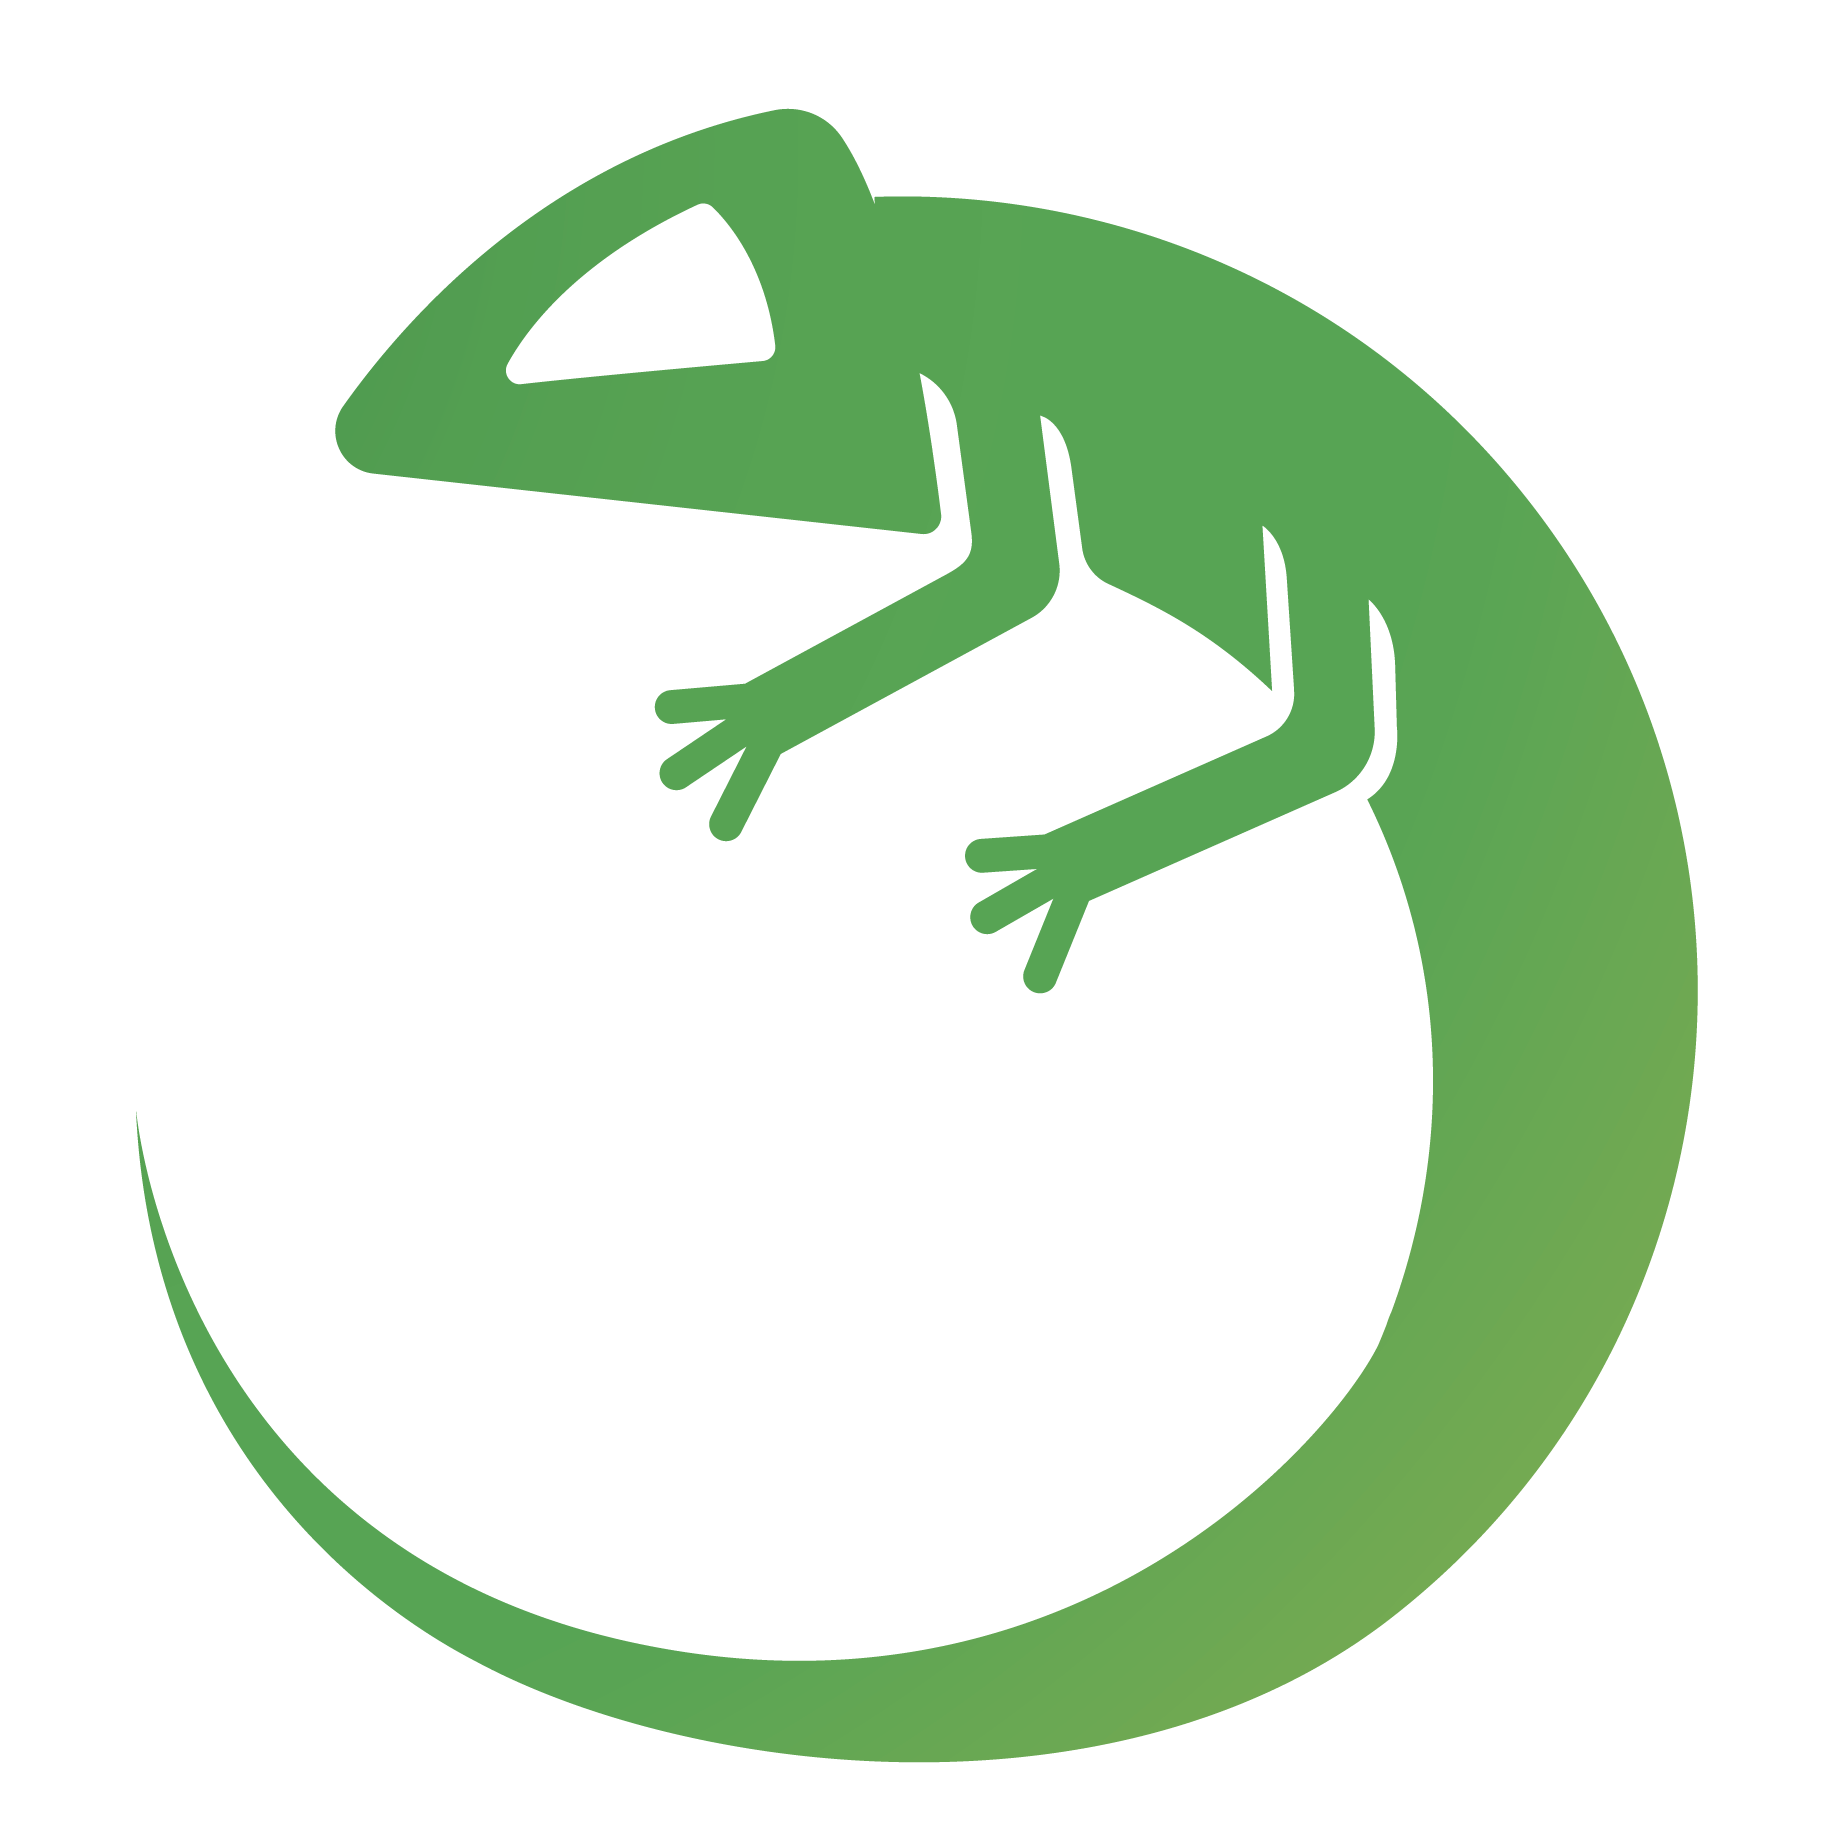
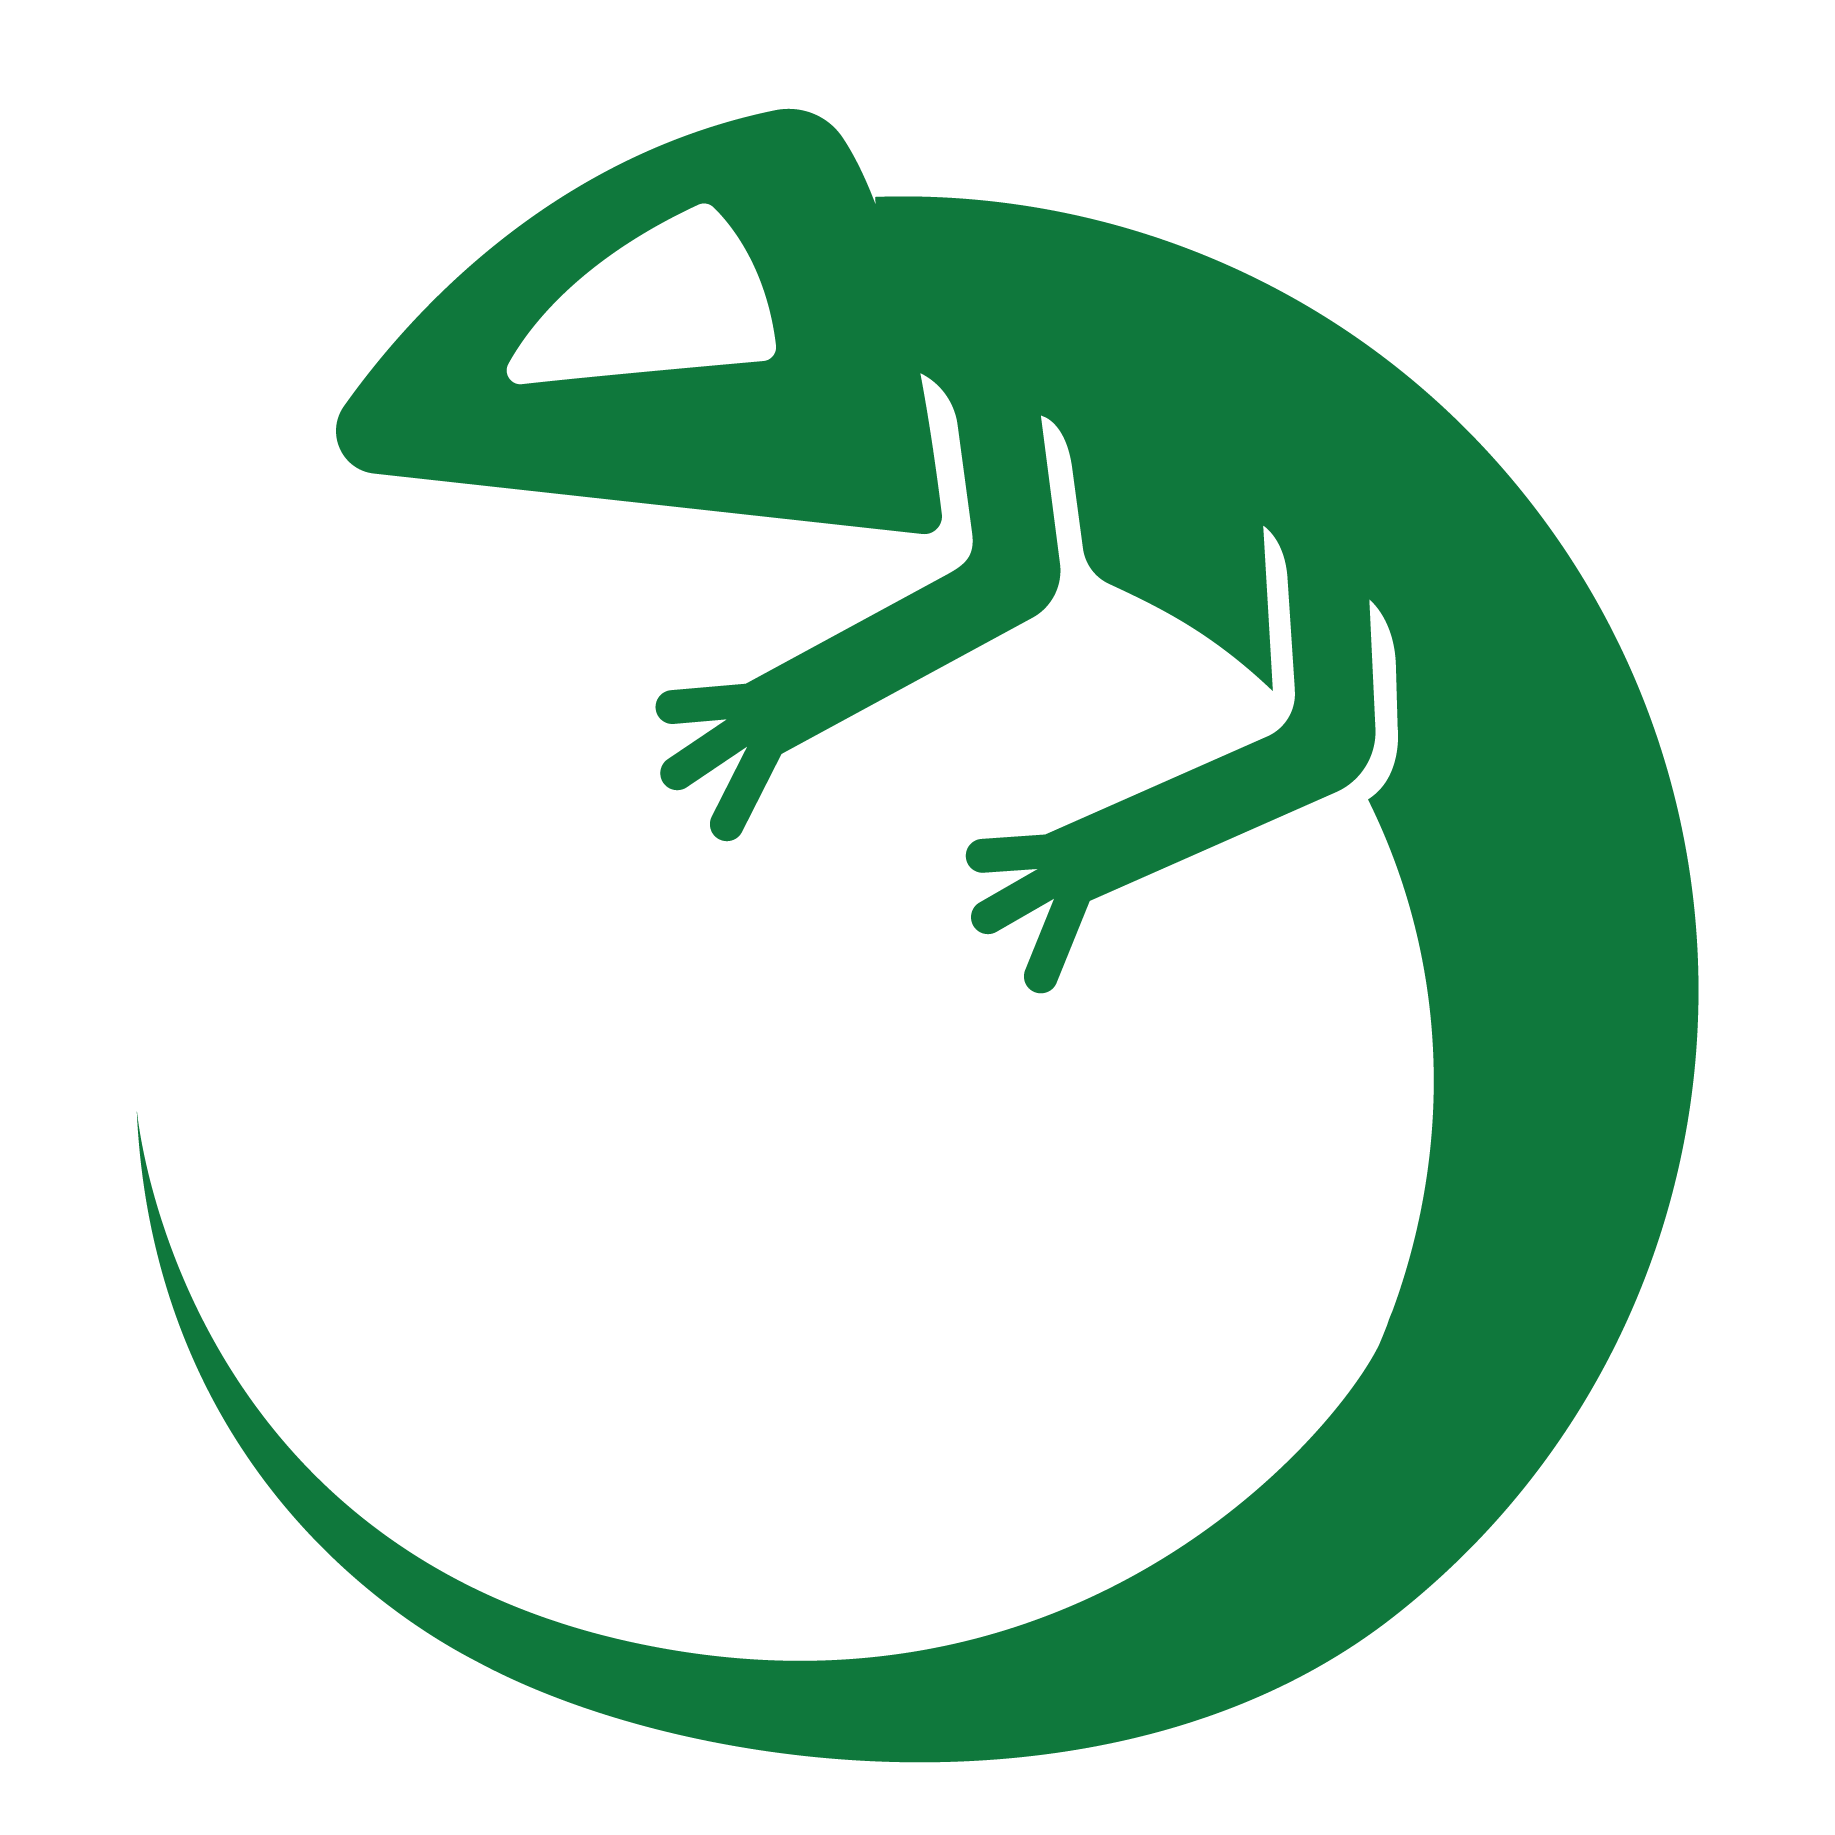
style: responsive image

Changed region(s): [[0.0622, 0.0621, 0.9324, 0.9629]]

diff --git a/src/pages/entrar/index.tsx b/src/pages/entrar/index.tsx
@@ -1,16 +1,8 @@
 import * as gtag from 'lib/gtag';
 
 import {
-  CustomButton,
-  CustomChakraNextLink,
-  PageHeading,
-} from '@/components/atoms';
-import { CadastroDrawer, Card } from '@/components/molecules';
-import { gql, useQuery } from '@apollo/client';
-import {
   Box,
   Center,
-  chakra,
   Collapse,
   FormControl,
   FormLabel,
@@ -19,9 +11,19 @@ import {
   PinInputField,
   Stack,
   Text,
+  chakra,
+  useColorModeValue,
   useDisclosure,
   useToast,
 } from '@chakra-ui/react';
+import { CadastroDrawer, Card } from '@/components/molecules';
+import { Controller, SubmitHandler, useForm } from 'react-hook-form';
+import {
+  CustomButton,
+  CustomChakraNextLink,
+  PageHeading,
+} from '@/components/atoms';
+import { gql, useQuery } from '@apollo/client';
 import {
   useCallback,
   useContext,
@@ -30,16 +32,15 @@ import {
   useRef,
   useState,
 } from 'react';
-import { Controller, SubmitHandler, useForm } from 'react-hook-form';
 
-import { Layout } from '@/components/templates';
+import { AiFillHome } from 'react-icons/ai';
 import { AuthContext } from '@/contexts/AuthContext';
 import { GetServerSideProps } from 'next';
-import NextImage from 'next/image';
-import { useRouter } from 'next/router';
-import { parseCookies } from 'nookies';
-import { AiFillHome } from 'react-icons/ai';
+import { Layout } from '@/components/templates';
 import { MdLogin } from 'react-icons/md';
+import NextImage from 'next/image';
+import { parseCookies } from 'nookies';
+import { useRouter } from 'next/router';
 
 const CHECK_MEMBER = gql`
   query checkMember($matricula: String) {
@@ -63,6 +64,11 @@ export default function Entrar() {
 
   const [login, setLogin] = useState(false);
   const pinInputFieldRef = useRef<HTMLInputElement>(null);
+
+  const calango = useColorModeValue(
+    '/calango-verde.png',
+    '/calango-verde-b.png',
+  );
 
   const { refetch } = useQuery<GetSocioData>(CHECK_MEMBER, {
     fetchPolicy: 'no-cache',
@@ -157,8 +163,8 @@ export default function Entrar() {
               placeholder="blur"
               layout="fill"
               objectFit="cover"
-              src={'/calango-verde.png'}
-              blurDataURL={'/calango-verde.png'}
+              src={calango}
+              blurDataURL={calango}
               quality={1}
               alt="logo"
               mx="auto"

diff --git a/src/pages/index.tsx b/src/pages/index.tsx
@@ -77,7 +77,10 @@ function Home({ post, partnerships }: HomeProps) {
   const partnershipsDiv = useRef<HTMLDivElement>(null);
   const { bg, green, invertedBg } = useContext(ColorContext);
   const ctaLogo = useColorModeValue('/logo-cinza.png', '/logo-branco.png');
-  const calango = useColorModeValue('/calango-verde.png', '/calango-verde.png');
+  const calango = useColorModeValue(
+    '/calango-verde.png',
+    '/calango-verde-b.png',
+  );
   const ChakraNextImage = chakra(NextImage);
 
   return (
